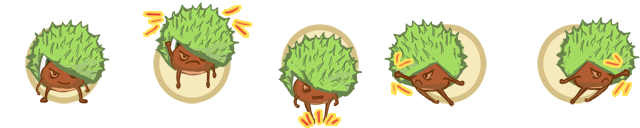
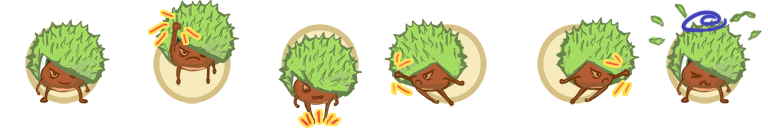
minor changes towards better graphical represantation of killings

diff --git a/js/Enemy.js b/js/Enemy.js
@@ -16,7 +16,7 @@ define(["Sprite", "Vector2D", "Emitter", "Communicator"], function(Sprite, Vecto
 
 	var deadMaterials = [
 		new THREE.MeshBasicMaterial({color: 0xffffff, map: THREE.ImageUtils.loadTexture("./maps/skelett.png"), transparent: true}),
-		new THREE.MeshBasicMaterial({color: 0xffff00, map: THREE.ImageUtils.loadTexture("./maps/skelett.png"), transparent: true})
+		new THREE.MeshBasicMaterial({color: 0xffffff, map: THREE.ImageUtils.loadTexture("./maps/spross.png"), transparent: true})
 	];
 
 	var setMeshToDead = function(mesh, good){
@@ -48,7 +48,7 @@ define(["Sprite", "Vector2D", "Emitter", "Communicator"], function(Sprite, Vecto
 		});
 		Communicator.instance.register(this, "free", function(id) {
 			if(id === that.id || id === that.otherID) {
-				// process the jump data
+				// process the free data
 				that.free();
 			}
 		});

diff --git a/js/Player.js b/js/Player.js
@@ -19,12 +19,13 @@ define(["Keyboard", "Vector2D", "Sprite", "Communicator", "Gamepad"], function(K
 
 		var that = this;
 		
-		this.sprite = new Sprite("./maps/kastanieSheet.png", 128, 128, 1, 5, new Vector2D(0, 0), 4, {
+		this.sprite = new Sprite("./maps/kastanieSheet.png", 128, 128, 1, 6, new Vector2D(0, 0), 4, {
 			"idle": [{x:0, y:0, time:1000}],
 			"up": [{x:1, y:0, time:600}],
 			"down": [{x:2, y:0, time:600}],
 			"left": [{x:3, y:0, time:600}],
-			"right": [{x:4, y:0, time:600}]
+			"right": [{x:4, y:0, time:600}],
+			"hit": [{x:5, y:0, time:600}]
 		});
 		this.sprite.setPosition(this.position);
 		
